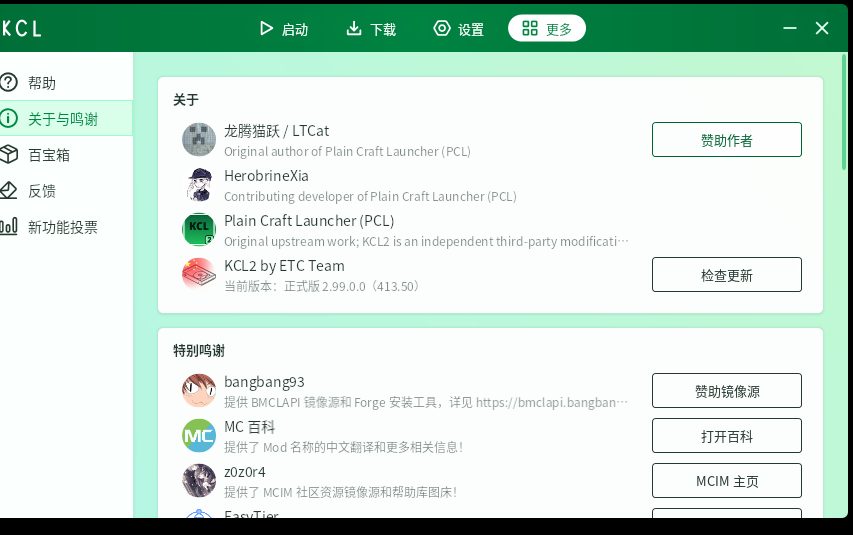
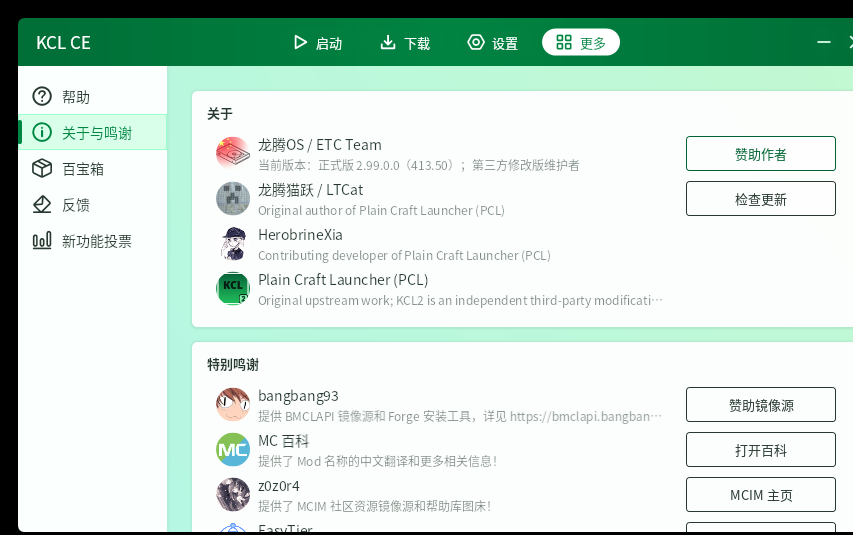
website: add KCL Mobile APK download, 3-repo stats, refresh CE/KCL2 about screenshots

diff --git a/website/dan.html b/website/dan.html
@@ -74,6 +74,17 @@ button.ghost{background:transparent;border:1px solid #3a5f47;color:#cfe6d6}
     </div>
 
     <div class="card">
+      <h2>下载统计 · KCL Mobile <span class="tag">Android</span></h2>
+      <div class="stats">
+        <div class="stat"><b id="mTag">-</b><span>最新版本</span></div>
+        <div class="stat"><b id="mLatest">-</b><span>最新版总下载次数</span></div>
+        <div class="stat"><b id="mTotal">-</b><span>近 100 个版本累计下载</span></div>
+      </div>
+      <div style="margin-top:18px" id="mAssets"></div>
+      <div class="muted" id="mTime"></div>
+    </div>
+
+    <div class="card">
       <h2>向启动器发布公告</h2>
       <div class="seg" id="targetSeg">
         <button type="button" data-t="kcl2" class="on" onclick="setTarget('kcl2')">KCL2</button>
@@ -99,21 +110,24 @@ button.ghost{background:transparent;border:1px solid #3a5f47;color:#cfe6d6}
 <div class="toast" id="toast"></div>
 
 <script>
-const statsRepo={kcl2:"ETQWFD/KCL2",ce:"ETQWFD/KCL-CE"};
+const statsRepo={kcl2:"ETQWFD/KCL2",ce:"ETQWFD/KCL-CE",mobile:"ETQWFD/KCL-Mobile"};
 const contentRepo="ETQWFD/KCL2";
 const announceFile={kcl2:"website/announce.json",ce:"website/announce-ce.json"};
-const label={kcl2:"KCL2",ce:"KCL CE"};
+const label={kcl2:"KCL2",ce:"KCL CE",mobile:"KCL Mobile"};
 let target="kcl2";
 function toast(msg,isErr){const t=document.getElementById("toast");t.textContent=msg;t.className="toast show"+(isErr?" err":"");clearTimeout(t._t);t._t=setTimeout(()=>{t.className="toast"},2600)}
 function login(){if(document.getElementById("pass").value==="1234"){sessionStorage.setItem("kcl_dan","1");enter()}else{toast("口令不正确",true)}}
-function enter(){document.getElementById("gateCard").classList.add("hidden");document.getElementById("panel").classList.remove("hidden");loadStats("kcl2");loadStats("ce");loadAnnounce();const saved=localStorage.getItem("kcl_pat");if(saved)document.getElementById("aToken").value=saved}
+function enter(){document.getElementById("gateCard").classList.add("hidden");document.getElementById("panel").classList.remove("hidden");loadStats("kcl2");loadStats("ce");loadStats("mobile");loadAnnounce();const saved=localStorage.getItem("kcl_pat");if(saved)document.getElementById("aToken").value=saved}
 function n(v){return new Intl.NumberFormat("zh-CN").format(v||0)}
 async function api(u,opt){const r=await fetch(u,Object.assign({headers:{Accept:"application/vnd.github+json"}},opt||{}));if(!r.ok)throw new Error((await r.text().catch(()=>""))||r.status);return r.json()}
 async function loadStats(which){
-  const repo=statsRepo[which],p=which==="kcl2"?"a":"b";
+  const repo=statsRepo[which],p=which==="kcl2"?"a":(which==="mobile"?"m":"b");
+  const latestUrl=which==="mobile"
+    ? `https://api.github.com/repos/${repo}/releases/tags/continuous`
+    : `https://api.github.com/repos/${repo}/releases/latest`;
   try{
     const[latest,releases]=await Promise.all([
-      api(`https://api.github.com/repos/${repo}/releases/latest`),
+      api(latestUrl),
       api(`https://api.github.com/repos/${repo}/releases?per_page=100`)]);
     const lc=latest.assets.reduce((s,a)=>s+a.download_count,0);
     const tot=releases.reduce((s,r)=>s+r.assets.reduce((x,a)=>x+a.download_count,0),0);

diff --git a/website/index.html b/website/index.html
@@ -40,7 +40,7 @@ header.nav{position:sticky;top:0;background:rgba(247,250,248,.92);backdrop-filte
 .f b{display:block;margin-bottom:6px;font-size:16px}
 .f span{color:var(--mut);font-size:14px}
 .editions{padding:24px 0 8px}
-.egrid{display:grid;grid-template-columns:1fr 1fr;gap:16px}
+.egrid{display:grid;grid-template-columns:repeat(3,1fr);gap:16px}
 .e{background:#fff;border:1px solid var(--line);border-radius:12px;padding:24px}
 .e h3{margin:0 0 8px;font-size:20px}
 .e p{color:var(--mut);font-size:14px;margin:0 0 18px}
@@ -132,10 +132,15 @@ footer{border-top:1px solid var(--line);padding:26px 0;color:var(--mut);font-siz
     <p>与 KCL2 同一套代码与修复，单文件 EXE；使用独立的更新通道与公告，在同一官网分发，供偏好社区渠道的用户下载。</p>
     <a class="btn sec" href="https://github.com/ETQWFD/KCL-CE/releases/download/continuous/KCLCE-portable.zip">下载 KCL CE</a>
   </div>
+  <div class="e">
+    <h3>KCL（Android 手机版）</h3>
+    <p>基于 FCL（Fold Craft Launcher）的第三方再发行，在手机上运行 Minecraft Java 版；更新与公告走本团队仓库，保留 FCL 上游署名，遵循 GPL-v3。全架构通用 APK。</p>
+    <a class="btn sec" href="https://github.com/ETQWFD/KCL-Mobile/releases/download/continuous/KCL-Mobile.apk">下载 KCL 手机版 APK</a>
+  </div>
 </div></section>
 
 <div class="wrap"><div class="notice">
-  <b>关于责任与运营：</b>KCL2 不运营 Minecraft，也不运营任何多人服务器。未成年人充值、服务器封禁、道具纠纷、支付退款或服务器管理规则，请联系对应服主、服务器管理组、支付渠道或 Microsoft / Mojang 官方支持，这些不属于启动器可处理范围。本项目按 MIT 许可开源，原作者龙腾猫跃 / LTCat 及 PCL 上游保留相应署名，KCL2 的改动由 ETC Team 维护，按“现状”提供、不附带担保。
+  <b>关于责任与运营：</b>KCL 系列不运营 Minecraft，也不运营任何多人服务器。未成年人充值、服务器封禁、道具纠纷、支付退款或服务器管理规则，请联系对应服主、服务器管理组、支付渠道或 Microsoft / Mojang 官方支持，这些不属于启动器可处理范围。桌面版 KCL2 / KCL CE 基于 Plain Craft Launcher 2 修改、遵循 MIT，原作者龙腾猫跃 / LTCat 及 PCL 上游保留署名；Android 版 KCL 基于 FCL（Fold Craft Launcher）再发行、遵循 GPL-v3，FCL-Team 上游署名保留。所有改动由 ETC Team（龙腾OS）维护，按“现状”提供、不附带担保。
 </div></div>
 
 <section class="wrap links">
